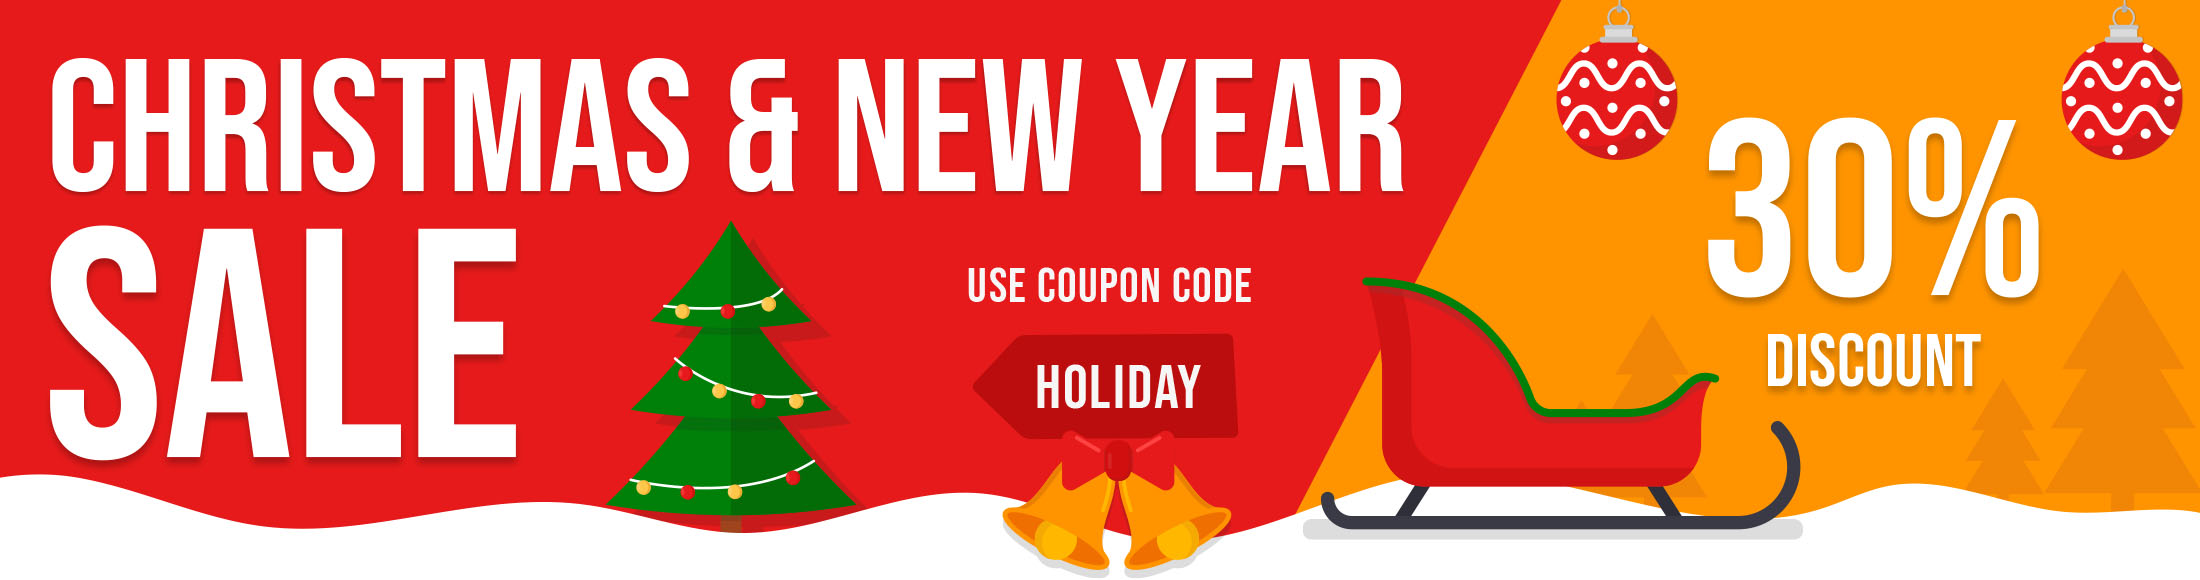
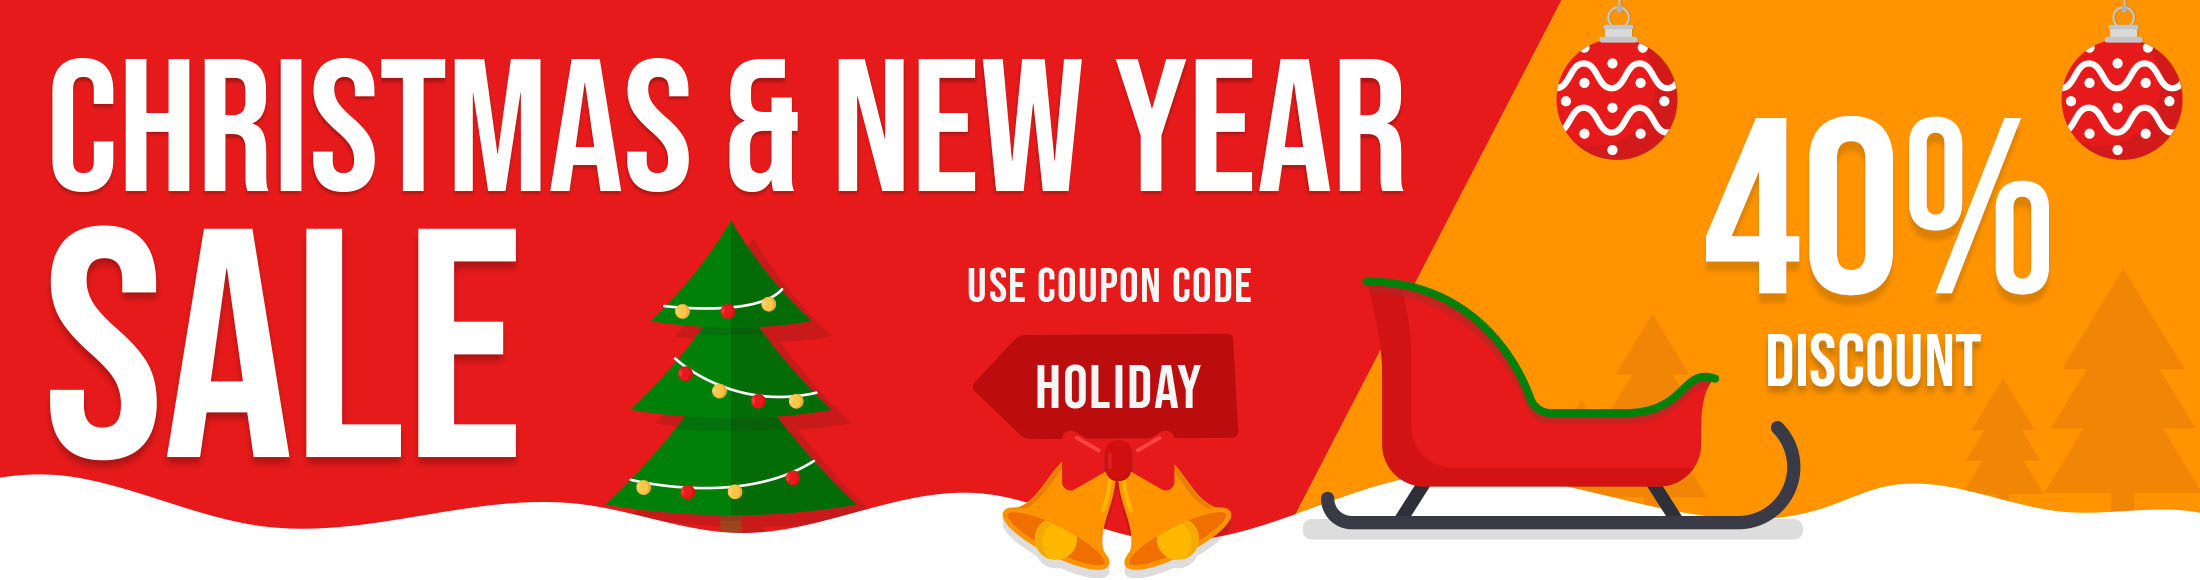
v 1.8.55

Changed region(s): [[0.7727, 0.1862, 0.9582, 0.5276], [0.8345, 0.2483, 0.8655, 0.2793]]

diff --git a/welcome/css/welcome.css b/welcome/css/welcome.css
@@ -641,3 +641,19 @@ body.toplevel_page_viral-welcome #wpfooter a {
         margin-bottom: 0;
     }
 }
+
+#toplevel_page_viral-welcome .wp-menu-name:after{
+    content: "40%\AOFF";
+    white-space: pre;
+    position: absolute;
+    right: 0;
+    top: 50%;
+    transform: translateY(-50%);
+    background: #FF0000;
+    color: #FFF;
+    font-size: 10px;
+    line-height: 1;
+    padding: 5px;
+    border-radius: 20px;
+    text-align: center;
+}

diff --git a/style-rtl.css b/style-rtl.css
@@ -4,7 +4,7 @@ Theme URI: https://hashthemes.com/wordpress-theme/viral/
 Author: HashThemes
 Author URI: https://hashthemes.com
 Description: Description: Viral is a powerful, SEO-optimized, and fully responsive WordPress theme, perfect for creating modern news portals, online magazines, editorial websites, viral content blogs, and entertainment platforms. Designed with speed, flexibility, and user engagement in mind, Viral comes packed with over 20 custom Elementor widgets that let you build professional-looking layouts without writing any code. Whether you’re publishing breaking news, trending articles, or lifestyle content, the theme’s visually engaging and mobile-friendly design ensures an excellent reading experience on all devices. Viral is fully compatible with WordPress Gutenberg editor, Elementor page builder, and multilingual plugins like WPML and Polylang, making it ideal for global audiences. It also supports RTL (Right-to-Left) languages, enhancing accessibility for non-Latin script users. The theme includes five custom widgets for sidebars and footers, offers flexible header and layout options, and allows easy customization of colors, fonts, and background settings. With built-in social media integration, one-click demo import, custom logo support, and translation readiness, Viral provides all the essential tools to launch a fast-loading, engaging, and high-performing WordPress news or magazine website. Check demos  https://demo.hashthemes.com/viral/
-Version: 1.8.54
+Version: 1.8.55
 License: GNU General Public License v2 or later
 License URI: http://www.gnu.org/licenses/gpl-2.0.html
 Text Domain: viral

diff --git a/style.css b/style.css
@@ -4,7 +4,7 @@ Theme URI: https://hashthemes.com/wordpress-theme/viral/
 Author: HashThemes
 Author URI: https://hashthemes.com
 Description: Viral is a powerful, SEO-optimized, and fully responsive WordPress theme, perfect for creating modern news portals, online magazines, editorial websites, viral content blogs, and entertainment platforms. Designed with speed, flexibility, and user engagement in mind, Viral comes packed with over 20 custom Elementor widgets that let you build professional-looking layouts without writing any code. Whether you’re publishing breaking news, trending articles, or lifestyle content, the theme’s visually engaging and mobile-friendly design ensures an excellent reading experience on all devices. Viral is fully compatible with WordPress Gutenberg editor, Elementor page builder, and multilingual plugins like WPML and Polylang, making it ideal for global audiences. It also supports RTL (Right-to-Left) languages, enhancing accessibility for non-Latin script users. The theme includes five custom widgets for sidebars and footers, offers flexible header and layout options, and allows easy customization of colors, fonts, and background settings. With built-in social media integration, one-click demo import, custom logo support, and translation readiness, Viral provides all the essential tools to launch a fast-loading, engaging, and high-performing WordPress news or magazine website. Check demos  https://demo.hashthemes.com/viral/
-Version: 1.8.54
+Version: 1.8.55
 License: GNU General Public License v2 or later
 License URI: http://www.gnu.org/licenses/gpl-2.0.html
 Text Domain: viral

diff --git a/inc/customizer/customizer-panel/settings.php b/inc/customizer/customizer-panel/settings.php
@@ -39,8 +39,8 @@ $viral_pro_features = '<ul class="upsell-features">
 // Register sections.
 $wp_customize->add_section(new Viral_Upgrade_Section($wp_customize, 'viral-pro-section', array(
     'priority' => 0,
-    //'title' => esc_html__('Black Friday & Cyber Monday Discount!', 'viral'),
-    'upgrade_text' => esc_html__('Upgrade to Pro', 'viral'),
+    'title' => esc_html__('Christmas & New Year Discount!', 'viral'),
+    'upgrade_text' => esc_html__('Upgrade to Pro (40% OFF)', 'viral'),
     'upgrade_url' => 'https://hashthemes.com/wordpress-theme/viral-pro/?utm_source=wordpress&utm_medium=viral-customizer-button&utm_campaign=viral-upgrade',
 )));
 

diff --git a/welcome/sections/header.php b/welcome/sections/header.php
@@ -1,5 +1,5 @@
 <div class="welcome-header clearfix">
-    <!--<a href="<?php echo esc_url('https://hashthemes.com/wordpress-theme/viral-pro/?utm_source=wordpress&utm_medium=viral-blackfriday&utm_campaign=viral-upgrade'); ?>" target="_blank"><img style="width:100%;margin-bottom:40px;display:block;" src="<?php echo esc_url(get_template_directory_uri() . '/welcome/css/blackfriday.jpg'); ?>"></a>-->
+    <a href="<?php echo esc_url('https://hashthemes.com/wordpress-theme/viral-pro/?utm_source=wordpress&utm_medium=viral-blackfriday&utm_campaign=viral-upgrade'); ?>" target="_blank"><img style="width:100%;margin-bottom:40px;display:block;" src="<?php echo esc_url(get_template_directory_uri() . '/welcome/css/christmas-sale.jpg'); ?>"></a>
     <div class="welcome-intro">
         <h2><?php
         printf(// WPCS: XSS OK.